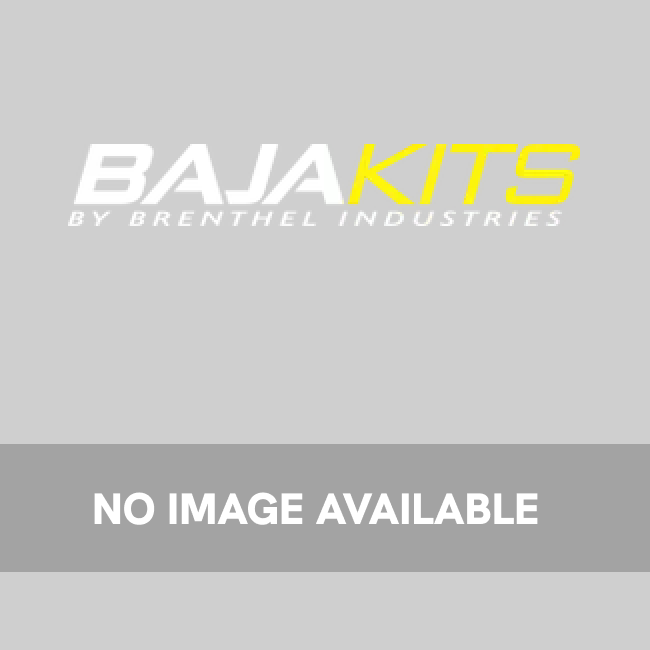
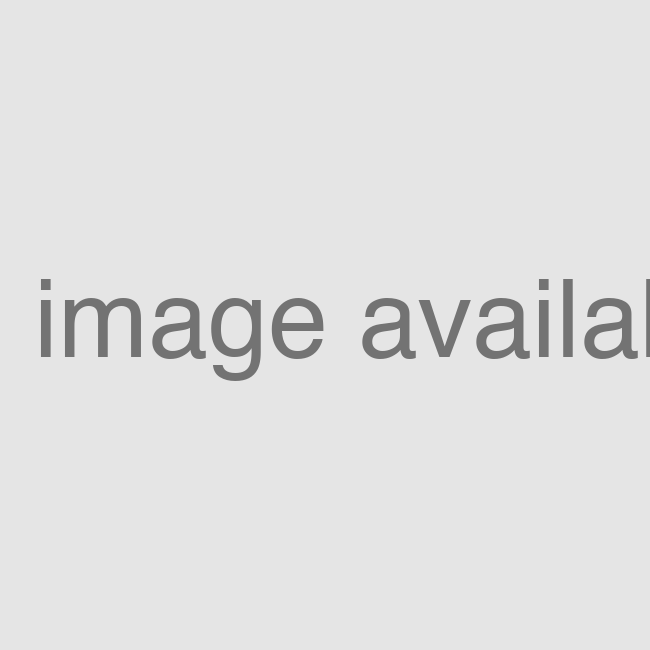
chore: scrub Aero Exhaust references from legal/warranty constants (#92)
* chore: scrub Aero Exhaust references from legal/warranty constants

The standard template inherited Aero-Exhaust-specific text from a prior
client clone. That polluted every downstream tenant's privacy, terms, and
warranty pages with another company's identity (and an aeroexhaust.com URL
in the cookie/tracking section).

Changes:
- src/app/privacy/constant.tsx: replace 'Aero Exhaust' brand mentions with
  generic 'we' / 'us' phrasing. Replace 'www.aeroexhaust.com' with 'Our Site'.
- src/app/terms/constant.tsx: same scrub.
- src/app/warranty/constant.tsx: replace the Aero-Exhaust-specific stainless-
  steel exhaust warranty terms with a neutral placeholder that tenants are
  expected to override before launch. Warranty content is fundamentally
  product-specific and cannot be templated meaningfully.

Existing live tenants are unaffected — template root files are copied at
scaffold time, not linked. Only future scaffolds get the cleaned constants.

* chore: scrub BajaKits-branded binary assets + delete dead warranty constant

Verification of the original PR surfaced two gaps:

1) public/Logo.png, public/sema-logo.jpg, public/favicon.ico, and
   public/no-image-avail-large.png shipped with BajaKits branding baked
   into the bitmap. Every scaffold rendered "BAJAKITS" in the header and
   footer. Replaced with neutral grey placeholders ("YOUR LOGO", "SEMA
   MEMBER", "No image available", neutral favicon). Tenants override on
   day one.
[…]

diff --git a/src/app/privacy/constant.tsx b/src/app/privacy/constant.tsx
@@ -17,9 +17,8 @@ export const privacyPolicySections = [
     title: "Updating Personal InformationHistory",
     description: (
       <>
-        If you are a registered member at Aero Exhaust, you can change your
-        personal information at any time by updating your information at
-        check-out.
+        If you are a registered member, you can change your personal
+        information at any time by updating your information at check-out.
       </>
     ),
   },
@@ -56,7 +55,7 @@ export const privacyPolicySections = [
     title: "SECURITY",
     description: (
       <>
-        Aero Exhaust seeks to protect the security of your personal information
+        We seek to protect the security of your personal information
         both online and offline. All credit card transactions are secure. Every
         on-line order is encrypted and sent through a secure server, using SSL
         technology to prevent information from being intercepted.
@@ -78,7 +77,7 @@ export const privacyPolicySections = [
     title: "Notification of Policy Changes",
     description: (
       <>
-        Aero Exhaust reserves the right to revise this Privacy Policy in the
+        We reserve the right to revise this Privacy Policy in the
         future by posting changes at this location and we may make changes at
         any time without notification.
       </>
@@ -115,9 +114,9 @@ export const privacyPolicySections = [
       <>
         We will never provide your personally identifiable information to third
         parties for their use in marketing their products or services to you
-        without your consent. Aero Exhaust takes great pride in having you as a
-        customer and we will ensure your privacy as a customer. Aero Exhaust
-        does not sell or exchange names or any other information about our
+        without your consent. We take great pride in having you as a customer
+        and we will ensure your privacy as a customer. We do not sell or
+        exchange names or any other information about our
         customers with third parties.
       </>
     ),
@@ -147,7 +146,7 @@ export const privacyPolicySections = [
         We may use the information collected through pixel tags, tracking links
         and similar technology in combination with your personally identifiable
         information.<br/><br/>
-        www.aeroexhaust.com does recognize your ISP (internet
+        Our Site does recognize your ISP (internet
         service provider), however, we cannot identify you as an individual. If
         you make an on-line purchase we do collect information (such as sales
         statistics and traffic patterns) to help improve your shopping

diff --git a/src/app/terms/constant.tsx b/src/app/terms/constant.tsx
@@ -32,9 +32,9 @@ export const TermsAndConditionsSections = [
       <>
         We will never provide your personally identifiable information to third
         parties for their use in marketing their products or services to you
-        without your consent. Aero Exhaust takes great pride in having you as a
-        customer and we will ensure your privacy as a customer. Aero Exhaust
-        does not sell or exchange names or any other information about our
+        without your consent. We take great pride in having you as a customer
+        and we will ensure your privacy as a customer. We do not sell or
+        exchange names or any other information about our
         customers with third parties.
       </>
     ),
@@ -64,7 +64,7 @@ export const TermsAndConditionsSections = [
         We may use the information collected through pixel tags, tracking links
         and similar technology in combination with your personally identifiable
         information.<br /><br />
-        www.aeroexhaust.com does recognize your ISP (internet
+        Our Site does recognize your ISP (internet
         service provider), however, we cannot identify you as an individual. If
         you make an on-line purchase we do collect information (such as sales
         statistics and traffic patterns) to help improve your shopping

diff --git a/cli/create-storefront.js b/cli/create-storefront.js
@@ -74,7 +74,7 @@ const API_URL = args["api-url"] || "";
 const ASSETS_URL = args["assets-url"] || "";
 const TEMPLATE_URL =
   args["template-url"] ||
-  "https://github.com/AlphaSquadTech/saleor-template-standard.git";
+  "https://github.com/webshopmanager/saleor-template-standard.git";
 
 const TARGET_DIR = path.resolve(process.cwd(), TENANT_NAME);
 
@@ -90,7 +90,7 @@ function run(cmd, opts = {}) {
 console.log(`
 ${c.bold}${c.cyan}┌──────────────────────────────────────┐
 │     create-storefront  v1.0.0        │
-│     AlphaSquad Storefront Scaffold   │
+│  Web Shop Manager Storefront Scaffold │
 └──────────────────────────────────────┘${c.reset}
 `);
 info(`Tenant:   ${c.bold}${TENANT_NAME}${c.reset}`);

diff --git a/TENANT_SETUP.md b/TENANT_SETUP.md
@@ -44,7 +44,7 @@ If you prefer to set things up manually:
 
 ```bash
 # 1. Clone the template
-git clone https://github.com/AlphaSquadTech/saleor-template-standard.git my-store
+git clone https://github.com/webshopmanager/saleor-template-standard.git my-store
 cd my-store
 
 # 2. Initialize the core submodule
